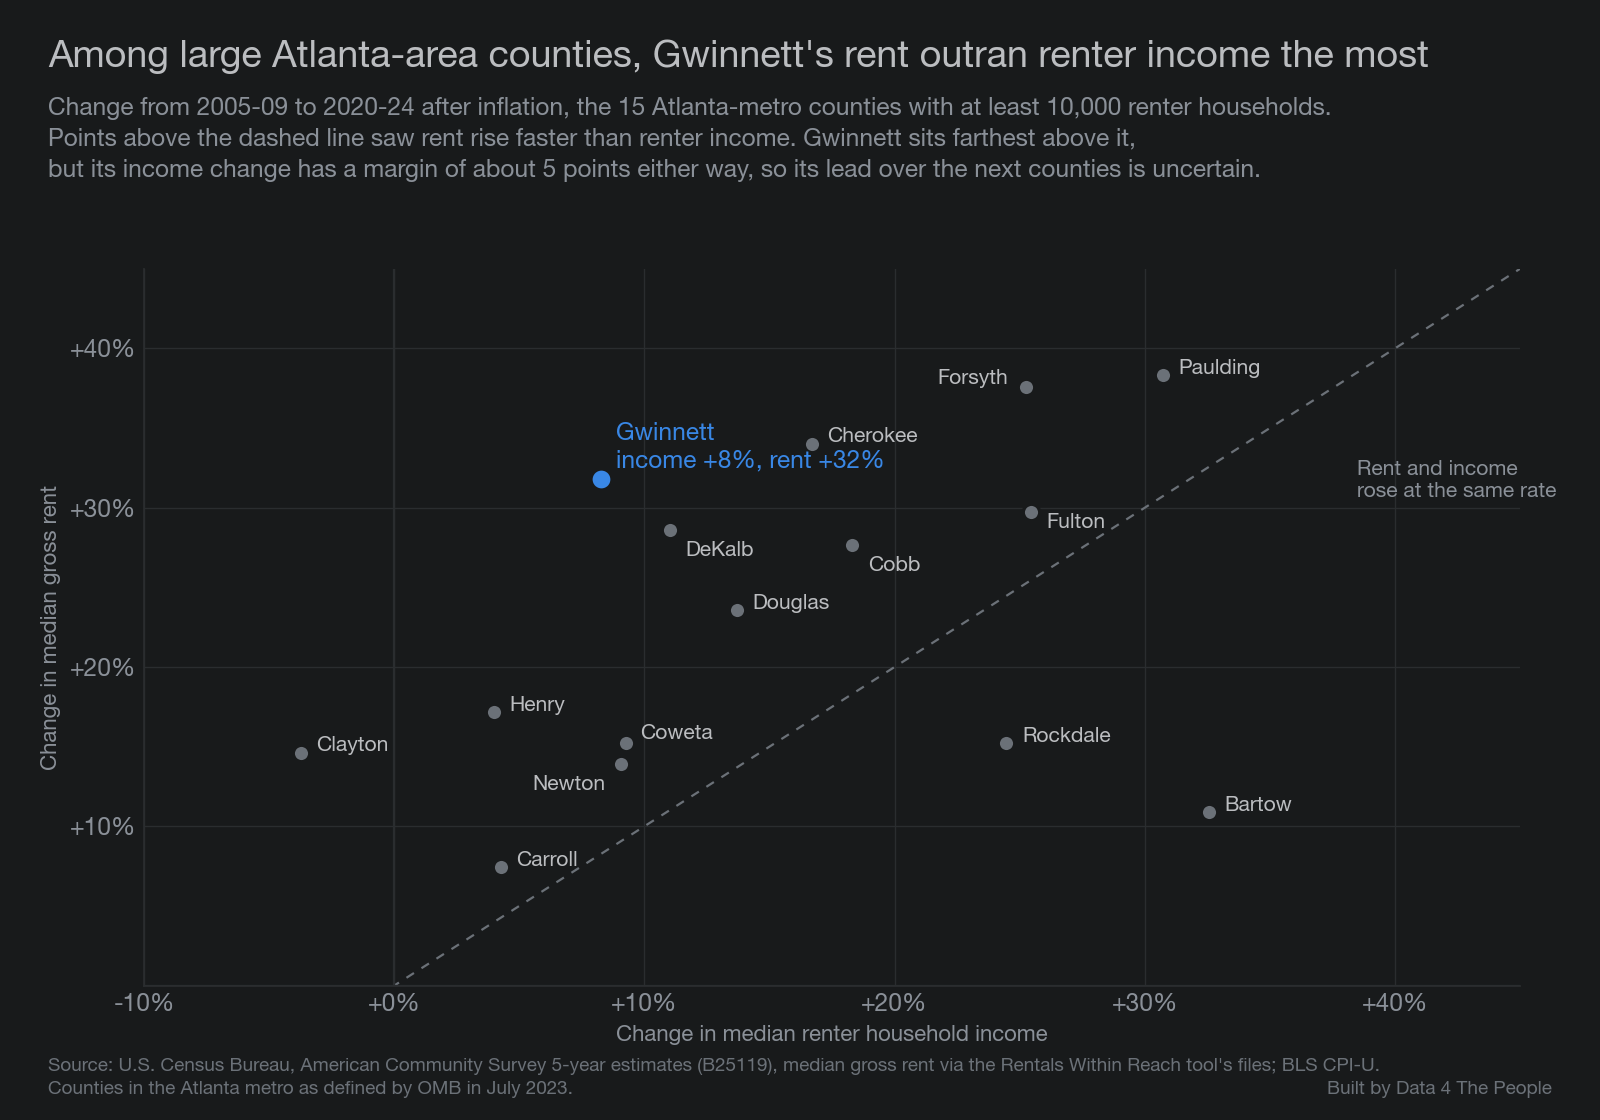
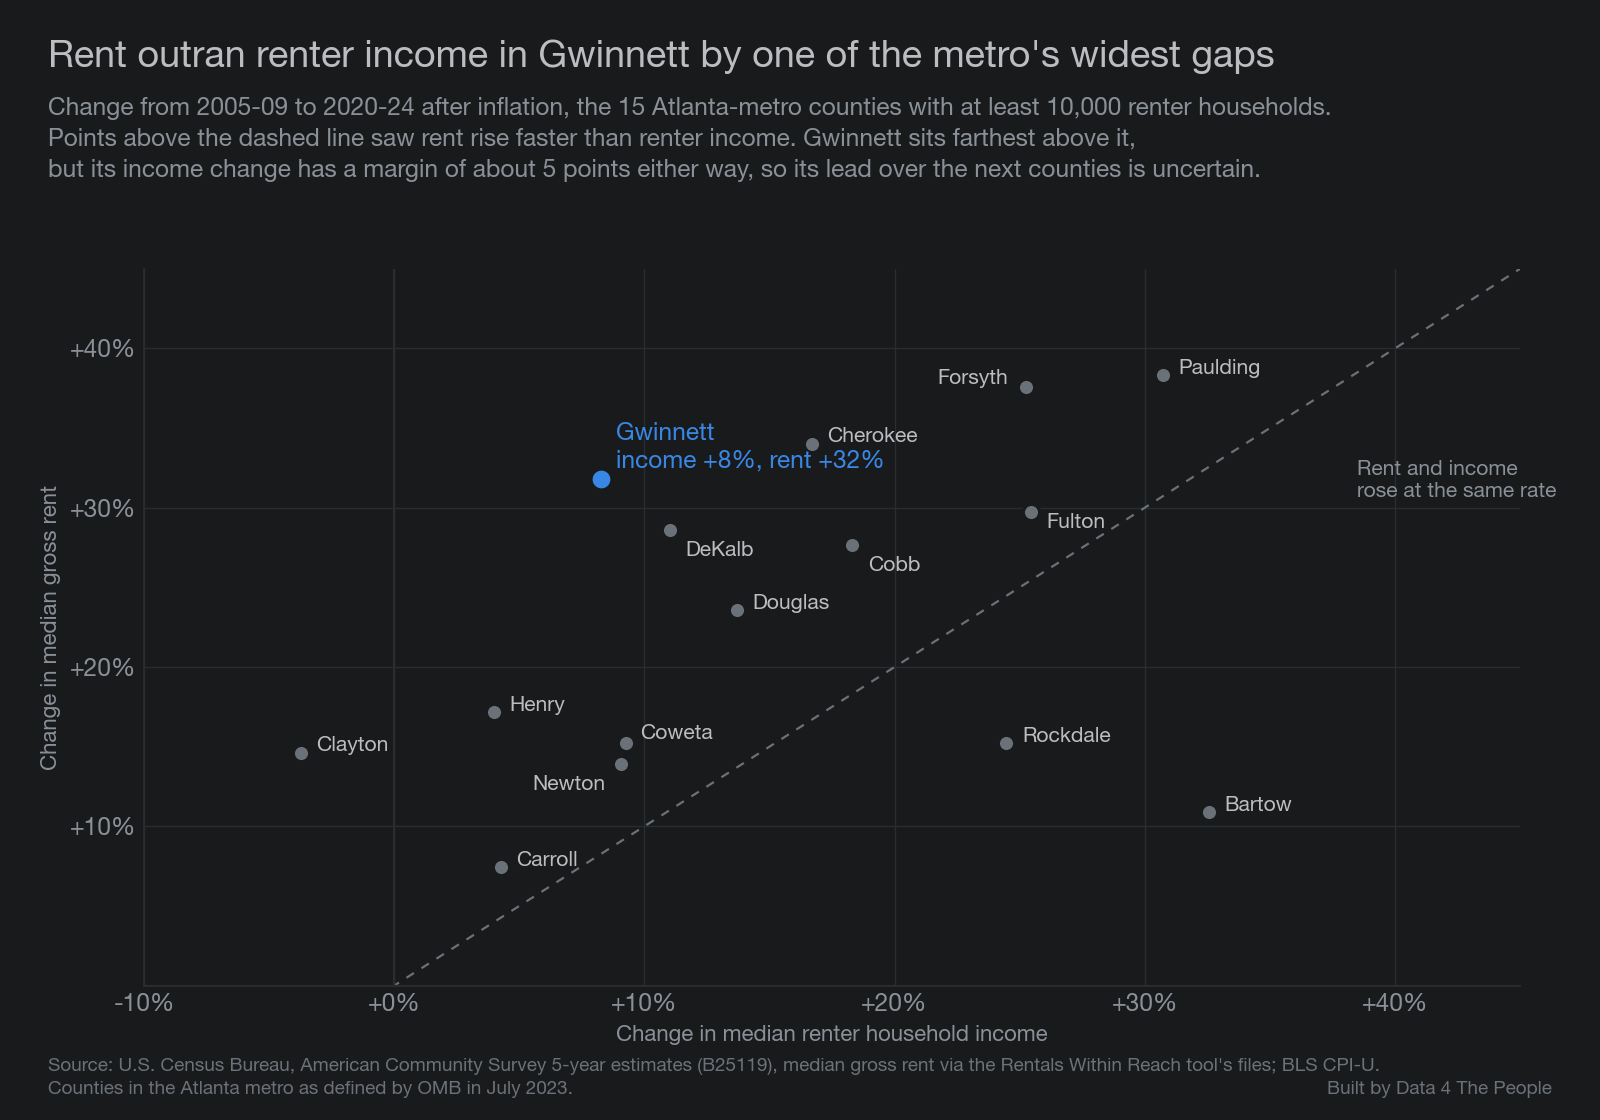
gwinnett: chart 09 and 10 labels fixed per independent tie-out (certainty, college-county definition)

Changed region(s): [[0.0312, 0.0312, 0.9062, 0.0625]]

diff --git a/scripts/09_charts.py b/scripts/09_charts.py
@@ -291,7 +291,7 @@ def income_vs_rent():
     g = next(o for o in big if o[6] == "13135")
     rank = sorted(big, key=lambda o: o[3] - o[0], reverse=True).index(g) + 1
     assert rank == 1
-    titleblock(fig, "Among large Atlanta-area counties, Gwinnett's rent outran renter income the most",
+    titleblock(fig, "Rent outran renter income in Gwinnett by one of the metro's widest gaps",
                f"Change from 2005-09 to 2020-24 after inflation, the {len(big)} Atlanta-metro counties with at least 10,000 renter households.\n"
                f"Points above the dashed line saw rent rise faster than renter income. Gwinnett sits farthest above it,\n"
                f"but its income change has a margin of about {g[1]:.0f} points either way, so its lead over the next counties is uncertain.")
@@ -312,11 +312,12 @@ def ranking():
     fig, ax = frame(left=0.2, top=0.74)
     hbars(ax, names, [v for v, _ in top], [BLUE if u == G else MUTED for _, u in top], lambda v: f"{v:.1f}%", 0.25)
     ax.set_xlim(0, max(v for v, _ in top) * 1.15)
-    titleblock(fig, "Gwinnett had the smallest share of rentals within reach outside college towns",
-               f"Share of rentals within reach, 2020-24: the 10 lowest of {n_nc:,} counties with 1,000+ rentals, leaving out college towns.\n"
-               f"With college towns included, Gwinnett ranks {rank_all} of {n_all:,}.\n" + REACH.replace(",\nthe", ", the"))
-    credit(fig, TOOL + "\nCounties the tool marks low reliability in 2020-24 are left out. College towns: the tool's list of 71 counties"
-           " where students are a large share of renters.")
+    titleblock(fig, f"Gwinnett had the lowest share within reach of {n_nc:,} non-college counties",
+               f"Share of rentals within reach, 2020-24: the 10 lowest of {n_nc:,} counties with 1,000+ rentals, leaving out college counties.\n"
+               f"With college counties included, Gwinnett ranks {rank_all} of {n_all:,}.\n" + REACH.replace(",\nthe", ", the"))
+    n_col = sum(1 for info in H["units"].values() if info["college"] >= C1.COLLEGE_SHARE)
+    credit(fig, TOOL + f"\nCounties the tool marks low reliability in 2020-24 are left out. \nCollege counties: the tool's {n_col} counties"
+           " where 15% or more of residents age 3 and over are enrolled in college.")
     save(fig, "10-least-affordable.png")
 
 

diff --git a/research/thread.md b/research/thread.md
@@ -7,12 +7,13 @@ an independent tie-out yet.
 ## Beats
 
 **1. Gwinnett had the smallest share of rentals within reach of any county in
-the country outside college towns.**
+the country outside college counties.**
 - In 2020-24, 10.5% of Gwinnett's rentals were within reach of its median
   renter household. That is the lowest of 1,922 counties with at least 1,000
-  rentals, leaving out college towns.
+  rentals, leaving out college counties (the tool's counties where 15% or
+  more of residents age 3 and over are enrolled in college).
 - Caveats:
-  - With college towns included, it ranks 3rd of 1,987.
+  - With college counties included, it ranks 3rd of 1,987.
   - Clayton County, next door, is at 11.0%, half a point behind.
   - The ranking uses the tool's default settings (the median renter household,
     after taxes, 30% of income). Other settings give other rankings.
